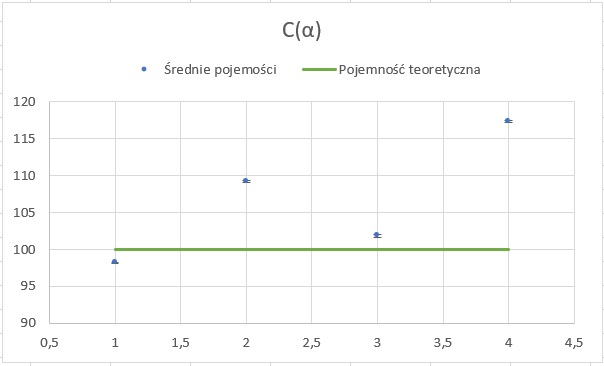
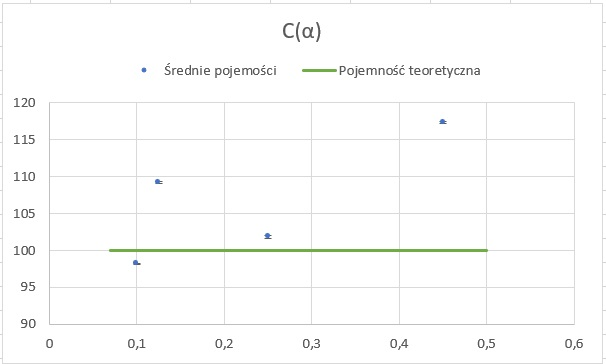
poprawki do wykresów

diff --git a/Analiza_Sygnalow_Sprawozdanie_1.tex b/Analiza_Sygnalow_Sprawozdanie_1.tex
@@ -26,8 +26,10 @@
 	\maketitle
 	\section{Cele}
 	\begin{itemize}
-		\item[$\bullet$] Analiza dokładności otrzymanych wartości pojemności kondensatorów podczas mierzenia czasu ładowania i~rozładowania kondensatora;
+		\item[$\bullet$] Obserwacja naładowania i rozładowania kondensatorów w czasie
+		\item[$\bullet$] Analiza dokładności otrzymanych wartości pojemności kondensatorów podczas mierzenia czasu ładowania i~rozładowania;
 		\item[$\bullet$] Analiza wpływu zmiany parametrów $\alpha$ i $\beta$ na~dokładność otrzymanych pojemności kondensatora;
+		\item[$\bullet$] %Coś o wpływie oporu
 	\end{itemize}
 	\section{Wstęp teoretyczny}
 	\noindent Aby wyprowadzić równanie różniczkowe i~następnie wyznaczyć czasy ładowania i~rozładowania, korzystamy~z:
@@ -62,7 +64,7 @@
 	Zostało wykonanych 12. pomiarów, cztery dla~każdego z~trzech kondensatorów o~pojemnościach: $10\mu F, 100\mu F$ oraz $470\mu F$. Użyte zostały konkretne wartości parametrów $\alpha$ i $\beta$ tak, by $\alpha+\beta=1$:
 	\begin{table}[H] %nie wiem czy to dobrze wygląda, więc feel free to change
 		\centering
-		\begin{tabular}{cc}
+		\begin{tabular}{c|c}
 			\hline
 			$\alpha$ & $\beta$ \\ \hline
 			0.1 & 0.9  \\ \hline
@@ -71,7 +73,7 @@
 			0.45 & 0.55  \\ \hline
 		\end{tabular}
 	\end{table}
-	\noindent Dla dokładniejszego przedstawienia zależności napięcia od~czasu na~badanych kondensatorach, został wykonany wykres przy użyciu oscyloskopu.
+	\noindent Dla dokładniejszego przedstawienia zależności napięcia od~czasu na~badanych kondensatorach, został wykonany wykres przy użyciu oscyloskopu. %jeszcze bym dodała coś o wpływie oporu na czas ładowania i rozładowania w tej sekcji
 	\section{Wyniki}
 	\subsection{Pomiary dla kondensatora o $C=10\mu F$.}
 	\begin{figure}[H]
@@ -79,9 +81,7 @@
 		\includegraphics[width=1\linewidth, height=.9\textheight]{10_tab.jpg}
 		\caption{Tabela pomiarów pojemności kondensatora $100\mu F$ w zależności od parametrów $\alpha$ i $\beta$.}
 	\end{figure}
-	%\begin{figure}[H]
-		
-	%\end{figure}
+
 	\subsection{Pomiary dla kondensatora o $C=100\mu F$.}
 	\begin{figure}[H]
 		\centering
@@ -121,7 +121,7 @@
 		\item[$\bullet$] dla $\alpha=0,1$ i $\beta=0,9$:
 		\begin{table}[h]
 			\centering
-			\begin{tabular}{cc}
+			\begin{tabular}{c|c}
 				\hline
 				$C$ teoretyczne & $C$ empiryczne \\ \hline
 				$\mu F$ & $\mu F$ \\ \hline
@@ -133,7 +133,7 @@
 		\item[$\bullet$] dla $\alpha=0,125$ i $\beta=0,875$:
 		\begin{table}[h]
 			\centering
-			\begin{tabular}{cc}
+			\begin{tabular}{c|c}
 				\hline
 				$C$ teoretyczne & $C$ empiryczne \\ \hline
 				$\mu F$ & $\mu F$ \\ \hline
@@ -145,7 +145,7 @@
 		\item[$\bullet$] dla $\alpha=0,25$ i $\beta=0,75$:
 		\begin{table}[H]
 			\centering
-			\begin{tabular}{cc}
+			\begin{tabular}{c|c}
 				\hline
 				$C$ teoretyczne & $C$ empiryczne \\ \hline
 				$\mu F$ & $\mu F$ \\ \hline
@@ -157,7 +157,7 @@
 		\item[$\bullet$] dla $\alpha=0,45$ i $\beta=0,55$:
 		\begin{table}[h]
 			\centering
-			\begin{tabular}{cc}
+			\begin{tabular}{c|c}
 				\hline
 				$C$ teoretyczne & $C$ empiryczne \\ \hline
 				$\mu F$ & $\mu F$ \\ \hline
@@ -180,14 +180,14 @@
 		\centering
 		\includegraphics{10_sr.jpg}
 	\end{figure}
-	\begin{figure}[H]
-		\centering
-		\includegraphics{10_a0.1.png}
-	\end{figure}
-	\begin{figure}[H]
-		\centering
-		\includegraphics{10_a0.125.png}
-	\end{figure}
+	%\begin{figure}[H]
+	%	\centering
+	%	\includegraphics{10_a0.1.png}
+	%\end{figure}
+	%\begin{figure}[H]
+	%	\centering
+	%	\includegraphics{10_a0.125.png}
+	%\end{figure}
 	\begin{figure}[H]
 		\centering
 		\includegraphics{10_a0.25.png}
@@ -201,10 +201,10 @@
 		\centering
 		\includegraphics{100_sr.jpg}
 	\end{figure}
-	\begin{figure}[H]
-		\centering
-		\includegraphics{100_a0.1.png}
-	\end{figure}
+	%\begin{figure}[H]
+	%	\centering
+	%	\includegraphics{100_a0.1.png}
+	%\end{figure}
 	\begin{figure}[H]
 		\centering
 		\includegraphics{100_a0.125.png}
@@ -213,10 +213,10 @@
 		\centering
 		\includegraphics{100_a0.25.png}
 	\end{figure}
-	\begin{figure}[H]
-		\centering
-		\includegraphics{100_a0.45.png}
-	\end{figure}
+	%\begin{figure}[H]
+	%	\centering
+	%	\includegraphics{100_a0.45.png}
+	%\end{figure}
 	\subsection{Pojemność kondensatora: $470 \mu F$}
 	\begin{figure}[H]
 		\centering
@@ -230,14 +230,14 @@
 		\centering
 		\includegraphics{470_a0.125.png}
 	\end{figure}
-	\begin{figure}[H]
-		\centering
-		\includegraphics{470_a0.25.png}
-	\end{figure}
-	\begin{figure}[H]
-		\centering
-		\includegraphics{470_a0.45.png}
-	\end{figure}
+	%\begin{figure}[H]
+	%	\centering
+	%	\includegraphics{470_a0.25.png}
+	%\end{figure}
+	%\begin{figure}[H]
+	%	\centering
+	%	\includegraphics{470_a0.45.png}
+	%\end{figure}
 	\section{Wnioski}
 	\begin{itemize}
 		\item[$\bullet$] Możemy zauważyć, że~dla~kondensatorów o~teoretycznych pojemnościach wynoszących $470\mu F$~i $10\mu F$ pojemność empiryczna zwiększa~się wraz~ze~wzrostem odległości między~$\alpha$ i $\beta$;
